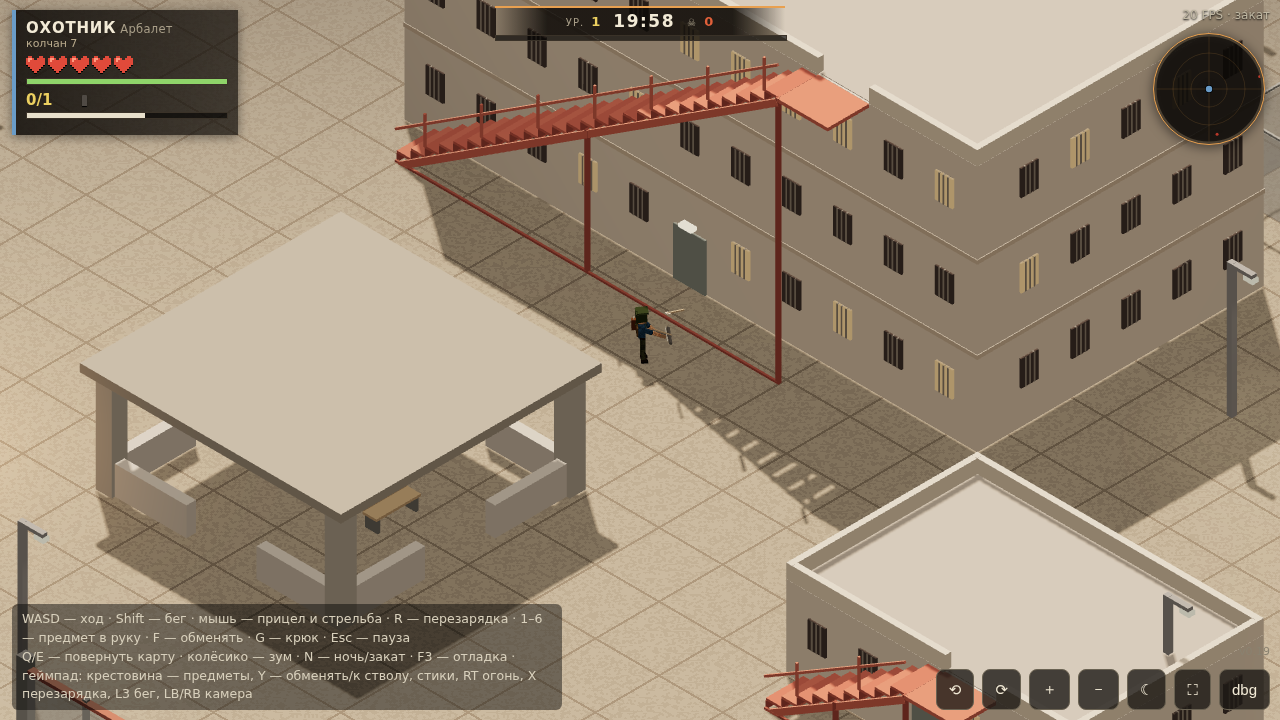
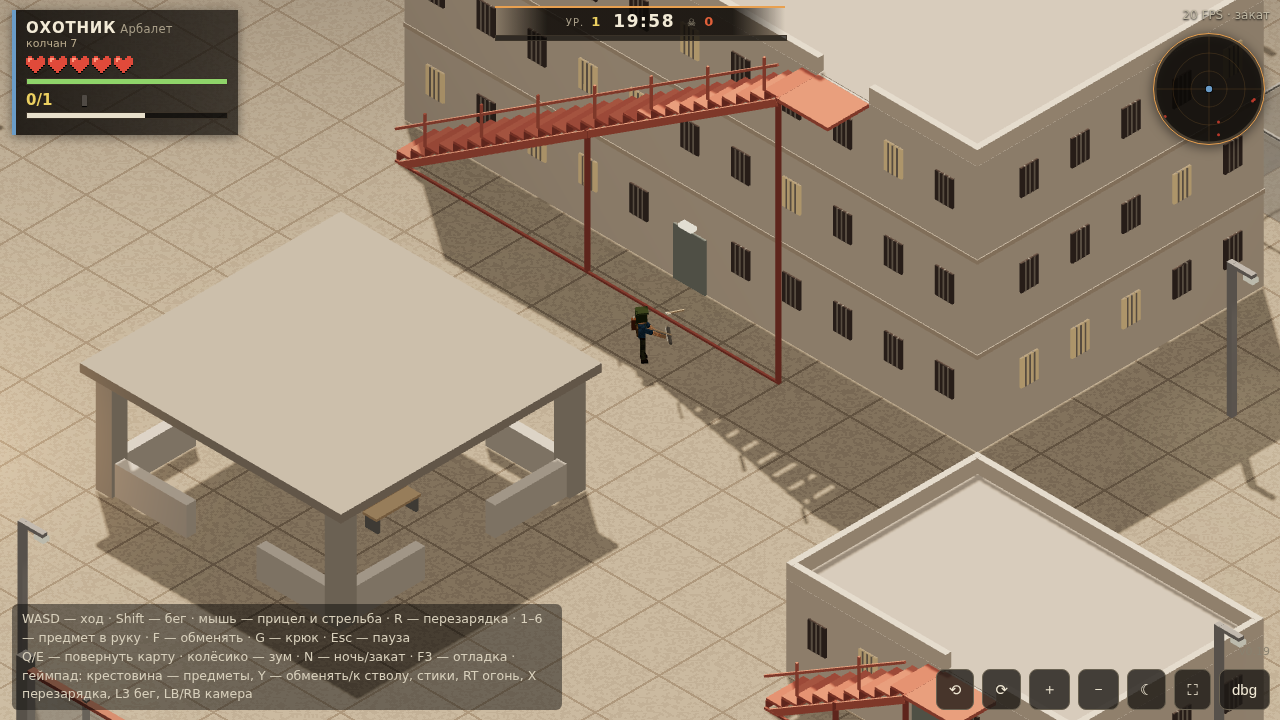
Fix lamps clipping into buildings (laundry, warehouse, boiler shed); add lamp_check tool

diff --git a/tools/lamp_check.js b/tools/lamp_check.js
@@ -1,0 +1,27 @@
+// Ищет фонари, торчащие из зданий (столб внутри чего-то или лапа с лампой внутри стены), и предлагает ближайшие свободные места
+const { chromium } = require('playwright'); const path = require('path');
+(async () => {
+  const b = await chromium.launch({ executablePath: '/opt/pw-browsers/chromium', args: ['--use-gl=swiftshader', '--enable-unsafe-swiftshader'] });
+  const p = await b.newPage({ viewport: { width: 800, height: 500 } });
+  await p.goto('file://' + path.resolve(process.argv[2] || 'index.html')); await p.waitForTimeout(3500);
+  const res = await p.evaluate(() => {
+    const own = (s, x, z) => Math.abs(s.x1 - (x - 0.08)) < 0.01 && Math.abs(s.z1 - (z - 0.08)) < 0.01 && s.y2 > 4;
+    const hit = (x, z, lamps) => {
+      for (const s of solids) {
+        if (own(s, x, z)) continue;
+        if (s.stair) continue;
+        if (s.y2 > 0.3 && s.y1 < 4.3 && s.x2 > x - 0.35 && s.x1 < x + 0.35 && s.z2 > z - 0.35 && s.z1 < z + 0.35) return 'столб в ' + [s.x1, s.z1, s.x2, s.z2].map(v => +v.toFixed(1)).join(',');
+        if (s.y2 > 3.9 && s.y1 < 4.3 && s.x2 > x - 0.1 && s.x1 < x + 0.95 && s.z2 > z - 0.25 && s.z1 < z + 0.25) return 'лапа в ' + [s.x1, s.z1, s.x2, s.z2].map(v => +v.toFixed(1)).join(',');
+      }
+      if (x < 1 || z < 1 || x > MAP - 1 || z > MAP - 1) return 'у края';
+      return null;
+    };
+    const bad = [], lamps = MAP_PRISON.ops.filter(o => o[0] === 'lamp').map(o => [o[1], o[2]]);
+    for (const [x, z] of lamps) { const why = hit(x, z); if (why) {
+      let best = null, bd = 1e9;
+      for (let dx = -4; dx <= 4; dx += 0.25) for (let dz = -4; dz <= 4; dz += 0.25) { const d = Math.hypot(dx, dz); if (d >= bd) continue; if (hit(x + dx, z + dz)) continue; if (lamps.some(([a, c]) => (a !== x || c !== z) && Math.hypot(a - x - dx, c - z - dz) < 3)) continue; bd = d; best = [+(x + dx).toFixed(2), +(z + dz).toFixed(2)]; }
+      bad.push({ lamp: [x, z], why, suggest: best }); } }
+    return { total: lamps.length, bad };
+  });
+  console.log(JSON.stringify(res, null, 1)); await b.close();
+})();

diff --git a/dist/zombie-voxel.html b/dist/zombie-voxel.html
@@ -1151,7 +1151,7 @@ const MAP_PRISON = {
     // --- общее: скамейки, бочки, фонари, зелень ---
     ...[70, 74, 78, 82].flatMap(z => [['bench', 44.6, z, 1], ['bench', 51.4, z, -1]]),
     ['barrel', 26, 40, true], ['barrel', 70, 36, true], ['barrel', 40, 58, true], ['barrel', 64, 58, false], ['barrel', 30, 66, true], ['barrel', 88, 68, false], ['barrel', 14, 62, true], ['barrel', 4, 40, false],
-    ...[[48, 4], [48, 14], [48, 24], [30, 22], [66, 22], [36, 36], [60, 36], [30, 46], [68, 46], [34, 60], [62, 60], [48, 62], [12, 31], [24, 56], [78, 56], [88, 56], [14, 57], [47.2, 68], [50.8, 76], [47.2, 84], [20, 66], [70, 66], [80, 86], [10, 90], [86, 40], [86, 8], [12, 4]].map(p => ['lamp', ...p]),
+    ...[[48, 4], [48, 14], [48, 24], [30, 22], [66, 22], [36, 36], [60, 36], [30, 46], [69.6, 46], [35.6, 60], [62, 60], [48, 62], [12, 31], [24, 56], [78, 56], [88, 56], [14, 57], [47.2, 68], [50.8, 76], [47.2, 84], [20, 66], [70, 66], [80, 86], [10, 90], [86, 40], [86, 16], [12, 4]].map(p => ['lamp', ...p]),
     ...[[4, 4], [18, 5], [5, 27], [19.5, 26], [24, 4], [72, 4], [3, 66], [92, 66], [4, 92], [92, 92], [30, 94], [84, 94], [4, 48], [92, 48], [4, 36]].map(p => ['tree', ...p]),
     ...[[6, 10], [86, 36], [6, 88], [90, 88], [24, 62], [86, 62], [30, 90], [80, 90], [92, 50], [20, 12], [77, 62]].map(p => ['bush', ...p]),
     ...[[45.2, 66], [50.8, 66], [46, 90], [50, 90], [47, 82]].map(p => ['cone', ...p]),

diff --git a/src/04c_map_prison.js b/src/04c_map_prison.js
@@ -75,7 +75,7 @@ const MAP_PRISON = {
     // --- общее: скамейки, бочки, фонари, зелень ---
     ...[70, 74, 78, 82].flatMap(z => [['bench', 44.6, z, 1], ['bench', 51.4, z, -1]]),
     ['barrel', 26, 40, true], ['barrel', 70, 36, true], ['barrel', 40, 58, true], ['barrel', 64, 58, false], ['barrel', 30, 66, true], ['barrel', 88, 68, false], ['barrel', 14, 62, true], ['barrel', 4, 40, false],
-    ...[[48, 4], [48, 14], [48, 24], [30, 22], [66, 22], [36, 36], [60, 36], [30, 46], [68, 46], [34, 60], [62, 60], [48, 62], [12, 31], [24, 56], [78, 56], [88, 56], [14, 57], [47.2, 68], [50.8, 76], [47.2, 84], [20, 66], [70, 66], [80, 86], [10, 90], [86, 40], [86, 8], [12, 4]].map(p => ['lamp', ...p]),
+    ...[[48, 4], [48, 14], [48, 24], [30, 22], [66, 22], [36, 36], [60, 36], [30, 46], [69.6, 46], [35.6, 60], [62, 60], [48, 62], [12, 31], [24, 56], [78, 56], [88, 56], [14, 57], [47.2, 68], [50.8, 76], [47.2, 84], [20, 66], [70, 66], [80, 86], [10, 90], [86, 40], [86, 16], [12, 4]].map(p => ['lamp', ...p]),
     ...[[4, 4], [18, 5], [5, 27], [19.5, 26], [24, 4], [72, 4], [3, 66], [92, 66], [4, 92], [92, 92], [30, 94], [84, 94], [4, 48], [92, 48], [4, 36]].map(p => ['tree', ...p]),
     ...[[6, 10], [86, 36], [6, 88], [90, 88], [24, 62], [86, 62], [30, 90], [80, 90], [92, 50], [20, 12], [77, 62]].map(p => ['bush', ...p]),
     ...[[45.2, 66], [50.8, 66], [46, 90], [50, 90], [47, 82]].map(p => ['cone', ...p]),
